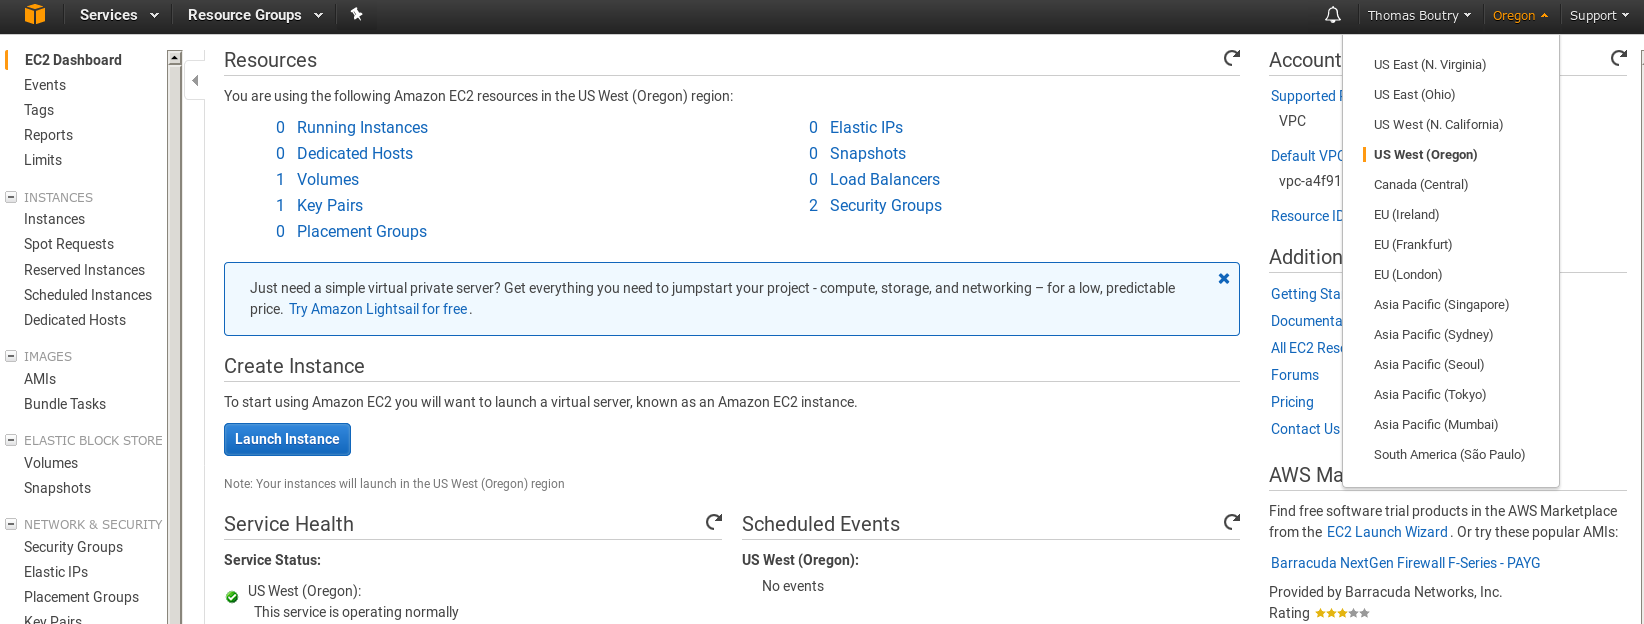
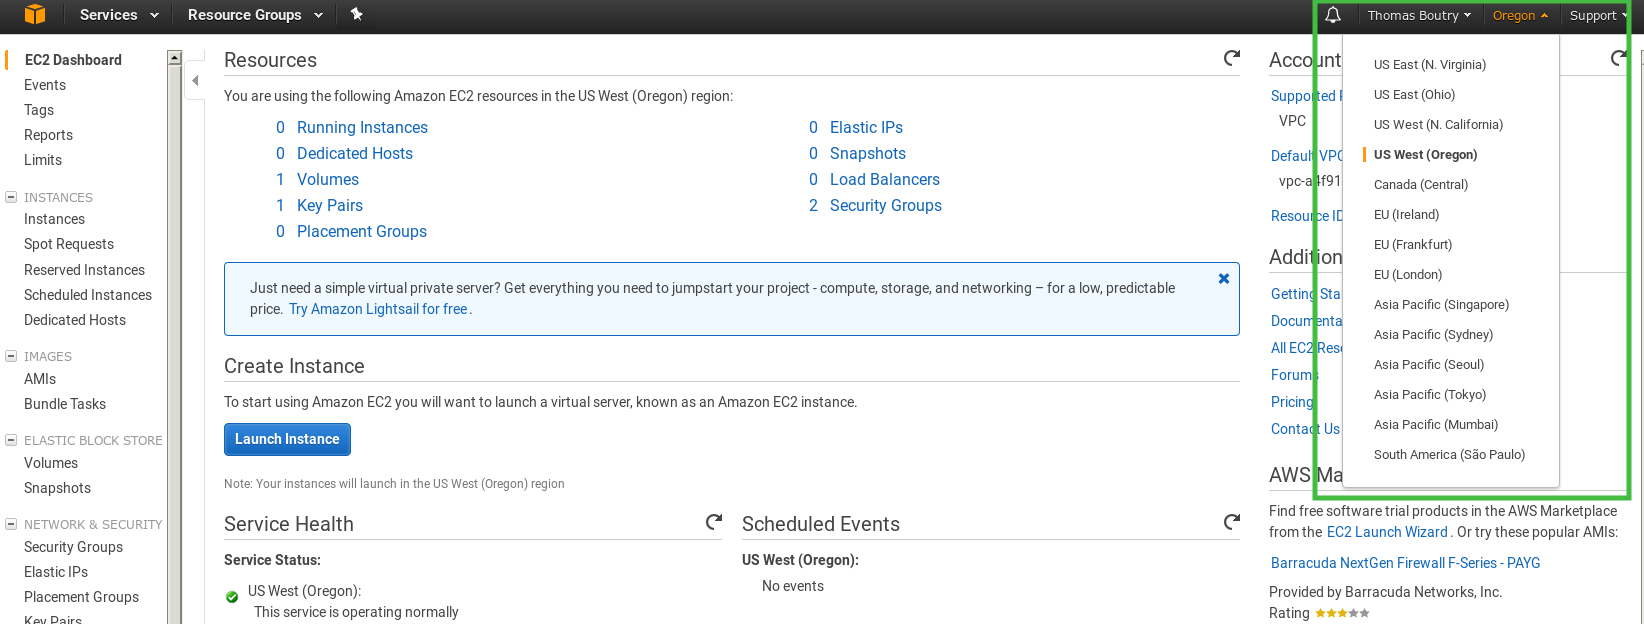
Step de création d'une instance EC2

Changed region(s): [[0.7755, 0.0, 0.9927, 0.8221]]

diff --git a/aws/02-service-EC2.md b/aws/02-service-EC2.md
@@ -746,6 +746,48 @@ Sans peur et avec beaucoup d'excitation !
 
 ### Création d'une instance __EC2__ 
 
+Commençons avec la création d'une instance, ceci nous offrira du traitement CPU disponible pour l'ensemble de nos opérations , pour la démonstration je vais choisir une instance de type __t2.micro__ . Il n'y a que très peu de différence entre les types d'instance , le concept sera le même , bien entendu selon le type d'instance il est possible que vous ayez plus d'option. 
+
+Ce sera vraiment étape par étape (__step by step__) , les copies d'écran furent réalisé en avril 2016 , précision si ceci change dans le futur :).
+
+Bien entendu vous devez être connecter dans l'interface **Amazon aws** : [console.aws.amazon.com](https://console.aws.amazon.com/?nc2=h_m_mc).
+
+À la page d'accueil sélectionné __EC2__ :
+
+![](./imgs/demo-aws-home.png)
+
+Vous pouvez choisir dans quelle région votre instance sera créé , prendre note que les volumes et instances sont fixe selon la région. Chaque région est "indépendante", il est peut-être possible de migrer des instances d'une région à l'autre, mais ceci ne fait pas partie de mon savoir pour le moment. Donc jusqu'à preuve du contraire :) , ceci n'est pas possible :D.
+
+![](./imgs/demo-aws-home-EC2-with-region.png)
+
+Nous allons donc faire la création de l'instance, ceci prendra quelques étapes , mais l'ensemble est très claire de plus il est possible de modifier la configuration par la suite. 
+
+1. Sélection du système d'exploitation (__Amazon Image__) , dans mon cas ce sera une instance __RedHat__, car c'est le premier :P. Vous pourrez explorer les option disponible telle que visualisé préalablement.
+
+    ![](./imgs/demo-aws-lunch-ec2-step1-AMI.png) 
+2. Sélection du type d'instance que nous désirons avoir , telle que mentionné plus tôt j'ai opté pour une instance __t2.micro__ afin de réduire mes coûts de présentation. Cette instance fut aussi utilisé lors de la démonstration de l'utilisation des crédits CPU :P.
+
+    ![](./imgs/demo-aws-lunch-ec2-step2-select-type-instance.png)
+3. Configuration de l'instance, pour le moment nous allons rester dans une configuration "simpliste". 
+    Comme disait si bien __M.Miyagi__ dans [Karate Kid](https://fr.wikipedia.org/wiki/Karaté_Kid_(film,_1984)) :
+    ```
+        Mr. Miyagi: First learn stand, then learn fly. Nature rule, Daniel-san, not mine.
+    ```
+
+    Dans cette logique commençons par prendre en charge une instance simplement pour après faire des choses magnifique :D. Prenons tous de même quelques minutes pour regarder le paysage ... Nous avons les options suivantes :
+
+    * __Number of instances__ : Il est possible de démarrer plusieurs instances avec la même configuration. Bien entendu gain de temps .
+    * __Network / Subnet__ : Nous le verrons plus loin mais il est possible de créer des réseaux pour nos instances ceci nous permettra de redéfinir des __DMZ__ clients ou simplement de la segmentation pour nos environnements 3 tiers ( Web, App, BD ).
+    * __Auto-assign Public IP__: Nous pouvons choisir l'option par défaut ou définir un pool d'IP nous appartenant, nous y reviendrons aussi. 
+    * __IAM role__: Ceci nous permet de gérer l'accès à l'instance , lors d'appel __API__, j'espère le couvrir plus tard , car ceci est super intéressant voici l'URL pour ceux qui désire en savoir un peu plus : [IAM role doc](http://docs.aws.amazon.com/AWSEC2/latest/UserGuide/UsingIAM.html#intro-to-iam).
+    * TODO : Continuer ICI ICI ICI
+
+    ![](./imgs/demo-aws-lunch-ec2-step3-config-instance.png)
+4. Association du disque dur au système , comme il y a une indication sur la taille disponible sans frais additionnel , dans mon cas je ne veux faire qu'un petit teste donc je n'ai pris que 10 Gigs. Il y a plusieurs type de stockage , selon l'instance sélectionné le menu déroulant en contient plus ou moins.
+
+    ![](./imgs/demo-aws-lunch-ec2-step4-add-storage.png)
+
+
 ### Modifier le type d'instance (__Resize instance__) 
 
 Nous allons maintenant couvrir le processus de modification d'instance, dans le cas où vous auriez fait le mauvais choix au départ :P et que vous constatiez que vous avez besoin de plus de ressource (mémoire, CPU , ...).
